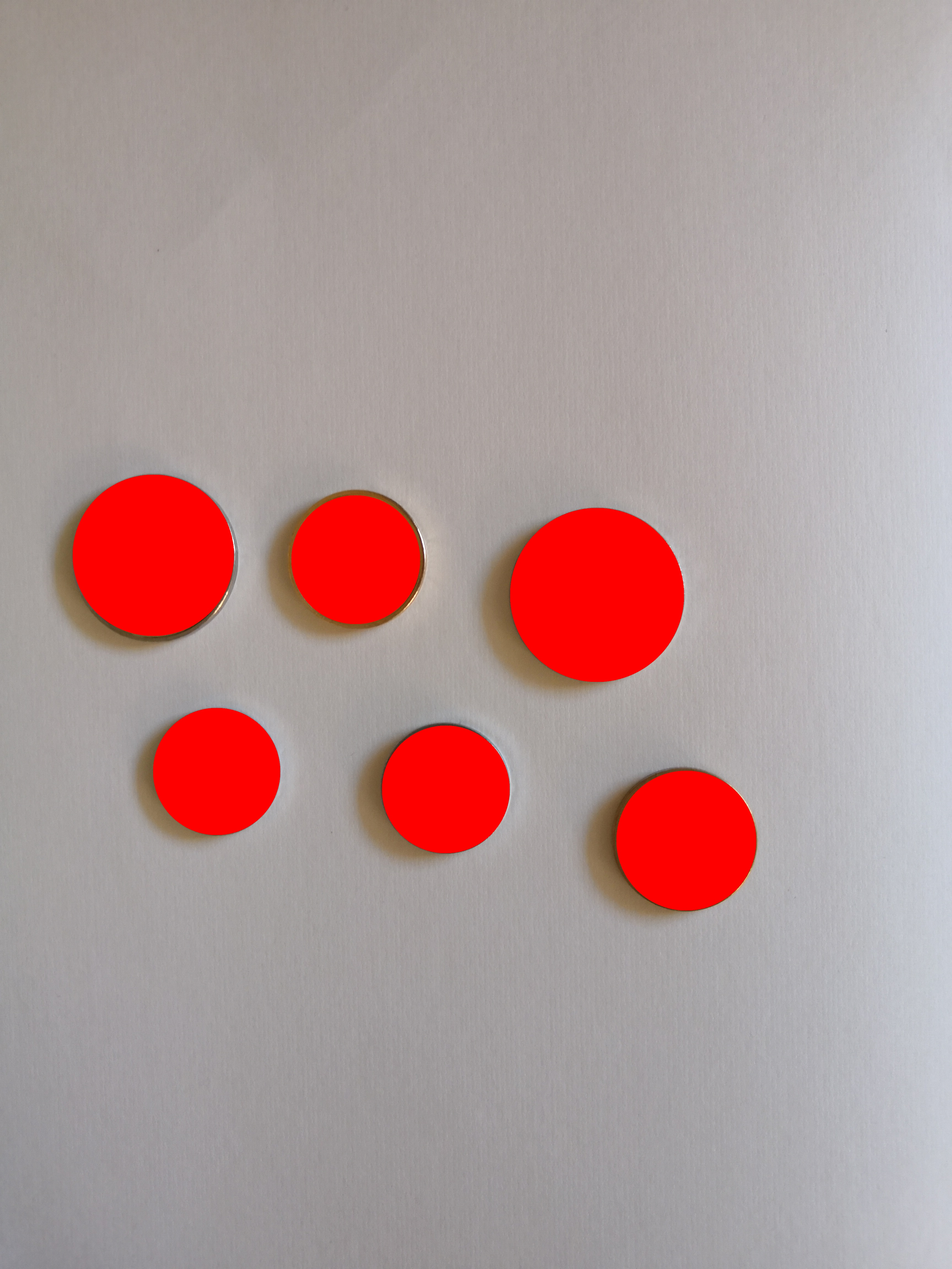
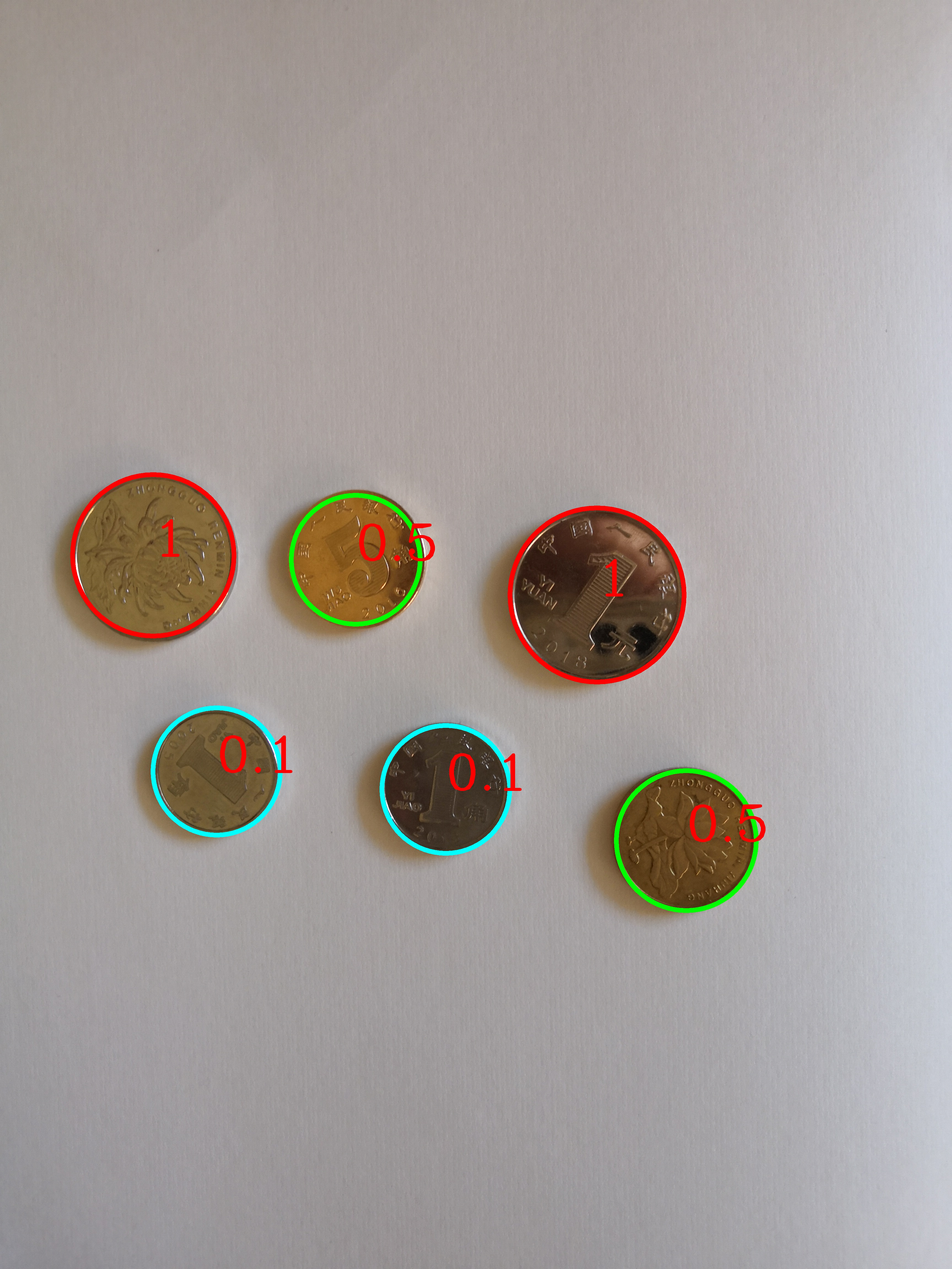
根据半径和颜色对图像中的硬币进行金额检测

diff --git a/coinCounter.py b/coinCounter.py
@@ -1,81 +1,193 @@
 
 import numpy as np
 import cv2
-import skimage.filters as filter
-from scipy import ndimage as ndi
-import math
 from matplotlib import pyplot as plt
 
+def loadImage(imagePath):
+    '''
+    加载图片
+    :param imagePath: 图片路径
+    :return: 返回加载到的图片
+    '''
+    img = cv2.imread(imagePath+'.jpg')
+    return img
 
 def showImg(image, titlestr=""):
+    '''
+    展示图片
+    :param image: 图片对象
+    :param titlestr: 图片标题，默认为空
+    '''
     plt.imshow(image)
     plt.xticks([]), plt.yticks([])
     plt.title(titlestr)
     plt.show()
 
-def detectCircles(image, i, isSave= True):
+def saveImage(image, str, path='pic/'):
+    '''
+    保存图片
+    :param image: 图片对象
+    :param str: 文件名
+    :param path: 保存路径
+    '''
+    cv2.imwrite(path+ str +'.jpg', image)
+
+def detectCircles(image, i, circles_gold=None, isSave=True, name=""):
+    '''
+    检测图片中圆的个数
+    :param image: 待检测的图片对象
+    :param i: 图像的序号
+    :param circles_gold: 五毛钱的位置信息
+    :param isSave: 是否保存图像
+    :param name: 需要保存的图片名称
+    :return: 返回检测到的圆形信息和图片对象
+    '''
     # 输出图像大小，方便根据图像大小调节minRadius和maxRadius
     print(image.shape)
     gray = cv2.cvtColor(image, cv2.COLOR_BGR2GRAY)
     circles = cv2.HoughCircles(gray, cv2.HOUGH_GRADIENT, 1, 500, param1=100, param2=30, minRadius=5, maxRadius=400)
     # 输出检测到圆的个数
-    # print(len(circles[0]))
+    print(circles)
     # 根据检测到圆的信息，画出每一个圆
     image_circles = image
-    for circle in circles[0]:
-        # 圆的基本信息
-        # print(circle[2])
-        # 坐标行列
-        x = int(circle[0])
-        y = int(circle[1])
-        # 半径
-        r = int(circle[2])
-        # 在原图用指定颜色标记出圆的位置
-        image_circles = cv2.circle(image, (x, y), r, (0, 0, 255), -1)
+    # 判断有没有检测到圆
+    if circles is None:
+        return None, None
+    else:
+        # 判断有没有黄金圆（五毛钱）
+        if circles_gold is None:
+            for circle in circles[0]:
+                # 圆的基本信息
+                # print(circle[2])
+                # 坐标行列
+                x = int(circle[0])
+                y = int(circle[1])
+                # 半径
+                r = int(circle[2])
+                print("radius:", r)
+                # 在原图用指定颜色标记出不同面额的位置
+                if r >= 290:
+                    image_circles = cv2.circle(image, (x, y), r, (0, 0, 255), 15)
+                    cv2.putText(image_circles, "1", (x, y), cv2.FONT_HERSHEY_COMPLEX, 6, (0, 0, 255), 10)
+                elif r >= 220:
+                    image_circles = cv2.circle(image, (x, y), r, (255, 255, 0), 15)
+                    cv2.putText(image_circles, "0.1", (x, y), cv2.FONT_HERSHEY_COMPLEX, 6, (0, 0, 255), 10)
 
-        if isSave:
-            imageName = "image_circles" + str(i)
-            saveImage(image_circles, imageName)
+                if isSave:
+                    imageName = "image_circles" + name + str(i)
+                    saveImage(image_circles, imageName)
+        else:
+            for circle in circles[0]:
+                x = int(circle[0])
+                y = int(circle[1])
+                r = int(circle[2])
+                print("radius:", r)
+                for circle_gold in circles_gold[0]:
+                    # 将掩膜前与掩膜后的圆心做差，横纵坐标相差不超过20时，该圆形为五毛
+                    if abs(circle[0] - circle_gold[0]) <= 20 and abs(circle[1] - circle_gold[1]) <= 20:
+                        image_circles = cv2.circle(image, (x, y), r, (0, 255, 0), 15)
+                        cv2.putText(image_circles, "0.5", (x, y), cv2.FONT_HERSHEY_COMPLEX, 6, (0, 0, 255), 10)
+                        # 绘制完五毛钱区域以后将其半径置0 防止对后续的半径判断产生影响
+                        r = 0
+                if r >= 290:
+                    image_circles = cv2.circle(image, (x, y), r, (0, 0, 255), 15)
+                    cv2.putText(image_circles, "1", (x, y), cv2.FONT_HERSHEY_COMPLEX, 6, (0, 0, 255), 10)
+                elif r >= 220:
+                    image_circles = cv2.circle(image, (x, y), r, (255, 255, 0), 15)
+                    cv2.putText(image_circles, "0.1", (x, y), cv2.FONT_HERSHEY_COMPLEX, 6, (0, 0, 255), 10)
 
-    return circles, image_circles
+                if isSave:
+                    imageName = "image_circles" + name + str(i)
+                    saveImage(image_circles, imageName)
+        return circles, image_circles
 
-def countValue(circles):
+def countValue(circles,circles_gold=None):
+    '''
+    计算金额总数
+    :param circles: 整个图片中所有的圆形信息
+    :param circles_gold: 五毛钱的圆形信息
+    :return: 金额
+    '''
     count = 0
-    # 根据圆的半径区分面额并计数
-    for circle in circles[0]:
-        radius = int(circle[2])
-        if radius >= 290:
-            count = count + 1
-        elif radius >= 240:
-            count = count + 0.5
-        elif radius >= 220:
-            count = count + 0.1
+    # 根据硬币的半径和颜色区分面额并计数
+    # 判断有没有五毛钱
+    if circles_gold is None:
+        for circle in circles[0]:
+            radius = int(circle[2])
+            if radius >= 290:
+                count = count + 1
+            elif radius >= 220:
+                count = count + 0.1
+    else:
+        for circle in circles[0]:
+            for circle_gold in circles_gold[0]:
+                if abs(circle[0]-circle_gold[0])<=20 and abs(circle[1]-circle_gold[1])<=20:
+                    count = count + 0.5
+                    circle[2] = 0
+            radius = int(circle[2])
+            if radius >= 290:
+                count = count + 1
+            elif radius >= 220:
+                count = count + 0.1
     return count
 
-def saveImage(image, str):
-    cv2.imwrite('pic/' + str +'.jpg', image)
-
 def detectGold(image_BGR):
+    '''
+    对图像做掩膜处理去除掉五毛钱意外的图像信息
+    :param image_BGR: 待检测的图像
+    :return: 进行掩膜处理后的图像
+    '''
+    # 将bgr图像转换为HSV
     image_HSV = cv2.cvtColor(image_BGR, cv2.COLOR_BGR2HSV)
-    lower_hsv = np.array([14, 43, 46])
-    upper_hsv = np.array([34, 255, 255])
+    # 设置颜色过滤区间
+    lower_hsv = np.array([0, 180, 80])
+    upper_hsv = np.array([255, 255, 170])
+    # 掩膜
     mask = cv2.inRange(image_HSV, lower_hsv, upper_hsv)
-    return mask
+    res = cv2.bitwise_and(image_BGR, image_BGR, mask=mask)
+    return res
 
 
 def coinCount(coinImage, i, isVisualize=False, isSave=True):
+    '''
+    检测图像中的金额
+    :param coinImage: 原图像
+    :param i: 图像序号
+    :param isVisualize: 是否要进行可视化
+    :param isSave: 是否要保存
+    :return: 金额
+    '''
     if isVisualize:
         showImg(coinImage, 'the image')
-    circles, img_circles = detectCircles(coinImage, i, isSave=isSave)
-    print("num of circles:",circles)
+    img_Gold= detectGold(img)
+    circles_gold, img_circles_glod = detectCircles(img_Gold, i, isSave=isSave, name="gold")
+    circles, img_circles = detectCircles(coinImage, i, circles_gold=circles_gold, isSave=isSave)
     if isVisualize:
         showImg(img_circles)
-    value = countValue(circles)
+        if img_circles_glod:
+            showImg(img_circles_glod)
+    if circles_gold is None:
+        value = countValue(circles)
+    else:
+        value = countValue(circles, circles_gold=circles_gold)
+
     return round(value, 1)
 
 # 测试代码
-img = cv2.imread('pic/10.jpg')
-mask = detectGold(img)
-showImg(mask)
+# img = cv2.imread('pic/10.jpg')
+img = loadImage("pic/10")
+# img_HSV = cv2.cvtColor(img,cv2.COLOR_BGR2HSV)
+# showImg(img_HSV)
+value = coinCount(img,10)
+print(value)
+
+# img_RGB = cv2.cvtColor(img,cv2.COLOR_BGR2RGB)
+# showImg(img_RGB)
 # value = coinCount(img,10)
 # print("value of the image:{value}".format(value=value))
+# res, mask = detectGold(img)
+# showImg(res)
+# value = coinCount(res,10)
+# print("value of the image:{value}".format(value=value))
+# img_HSV = cv2.cvtColor(img,cv2.COLOR_BGR2HSV)
+# showImg(img_HSV)
